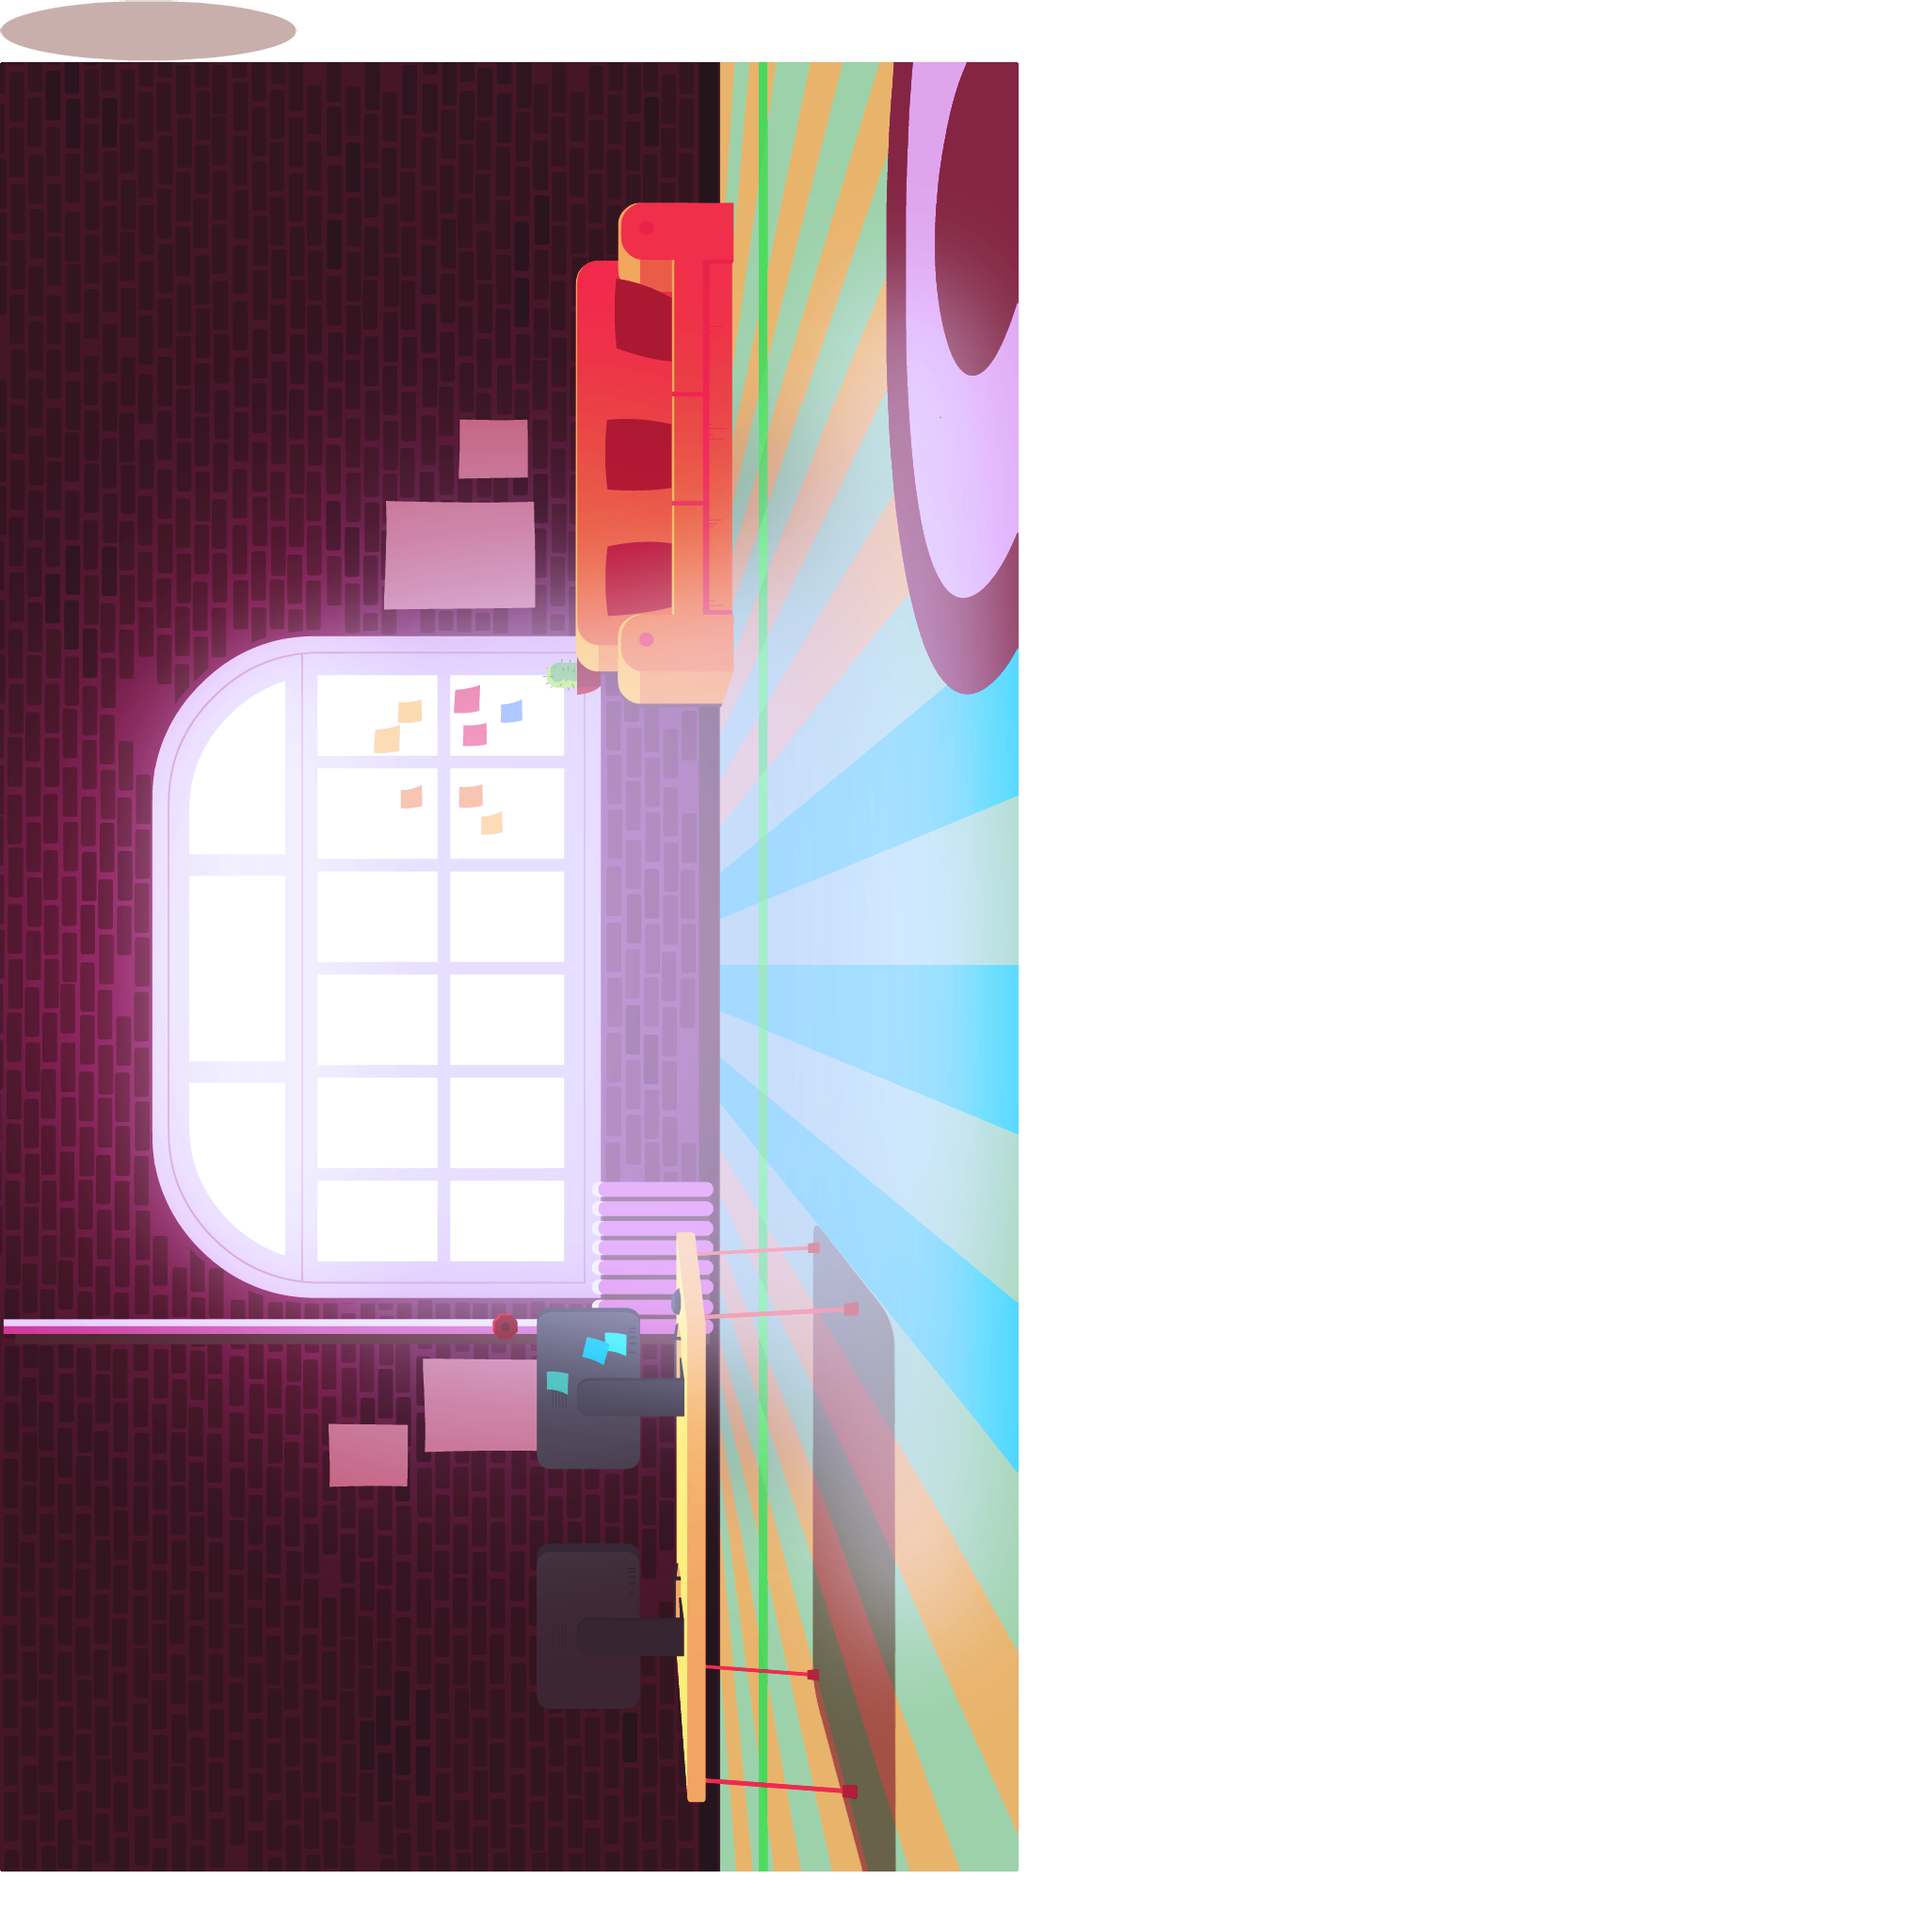
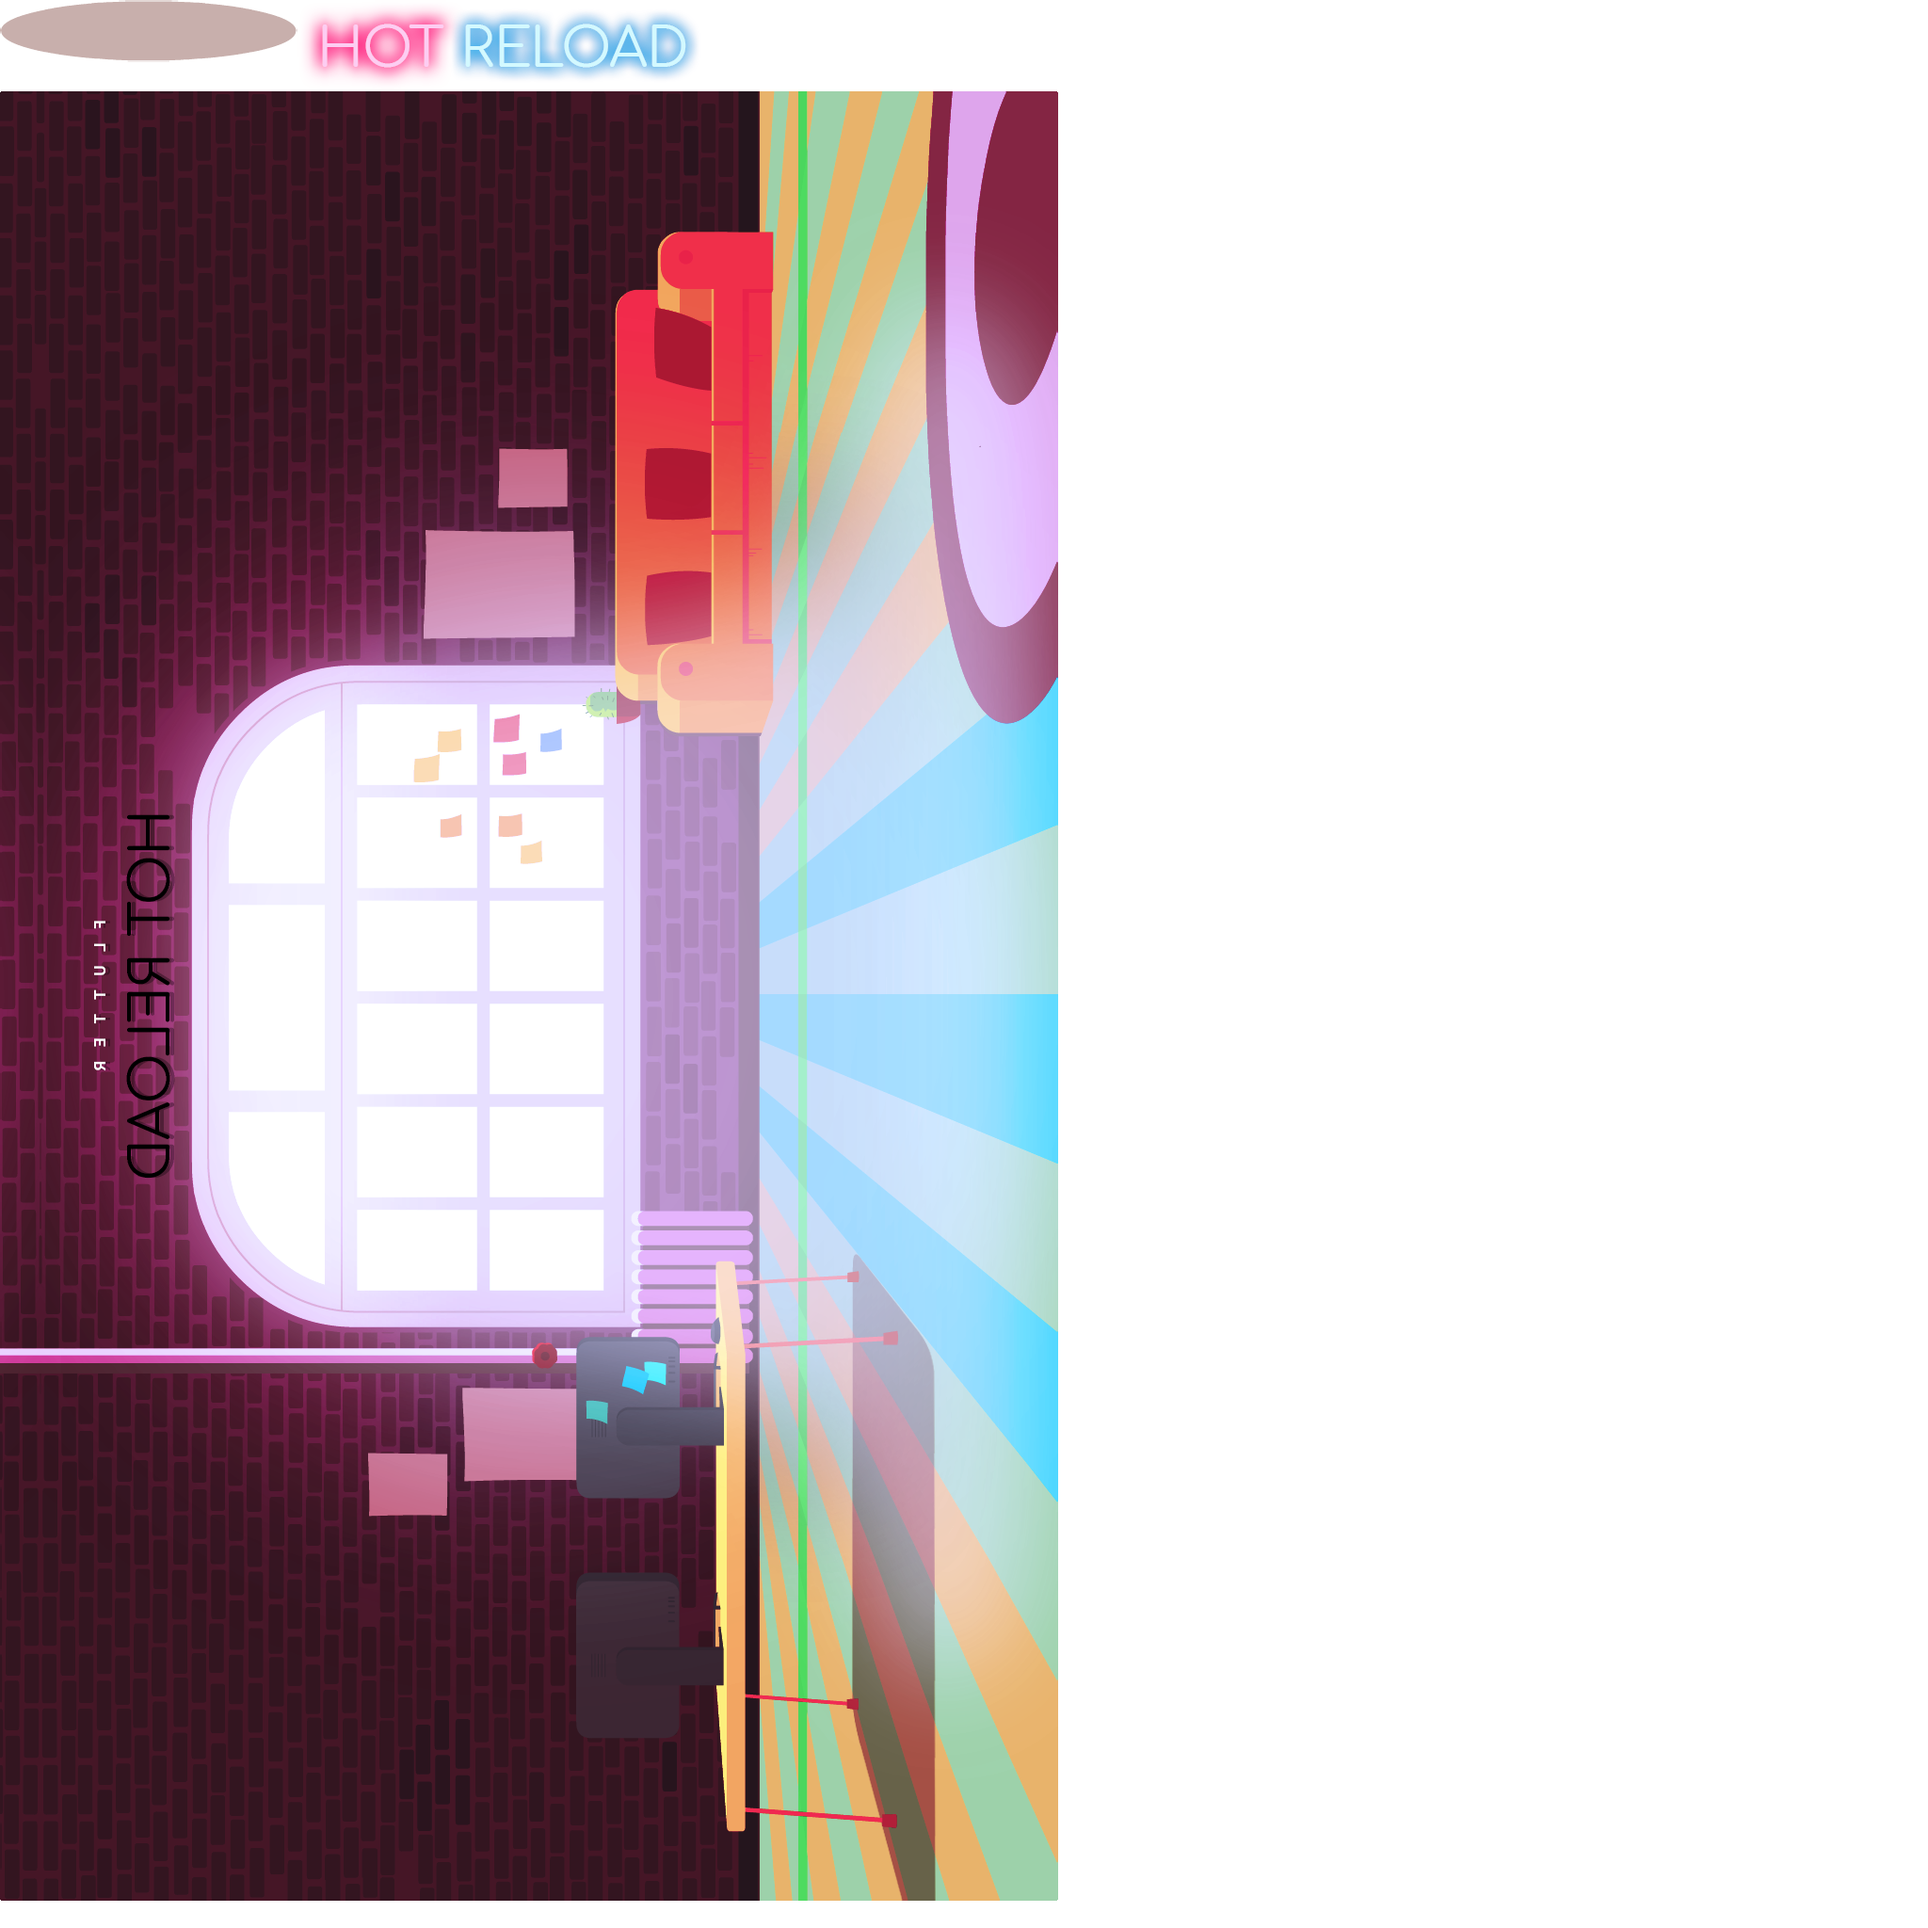
Adding new title.

Changed region(s): [[0.0, 0.0, 0.5625, 1.0], [0.1875, 0.875, 0.2188, 0.9375]]

diff --git a/terminal_app/lib/character_scene.dart b/terminal_app/lib/character_scene.dart
@@ -190,6 +190,8 @@ const double BubblePaddingV = 12.0;
 class TerminalSceneRenderer extends RenderBox
 {
 	FlutterActor _scene;
+	ActorAnimation _flicker;
+	double _flickerTime = 0.0;
 	ActorAnimation _animation;
 	int _characterIndex = 0;
 	double _animationTime = 0.0;
@@ -243,6 +245,7 @@ class TerminalSceneRenderer extends RenderBox
 			
 			_contentHeight = height;
 			_position = new Offset(x, y);
+			_flicker = _scene.getAnimation("Flicker");
 			markNeedsLayout();
 		});
 	}
@@ -414,6 +417,12 @@ class TerminalSceneRenderer extends RenderBox
 			_animationTime = _animationTime.clamp(0.0, _animation.duration);
 			_animation.apply(_animationTime, _scene, 1.0);
 		}
+		if(_flicker != null)
+		{
+			_flickerTime = (_flickerTime+elapsed)%_flicker.duration;
+			_flicker.apply(_flickerTime, _scene, 1.0);
+		}
+
 		_scene.advance(elapsed);
 
 
